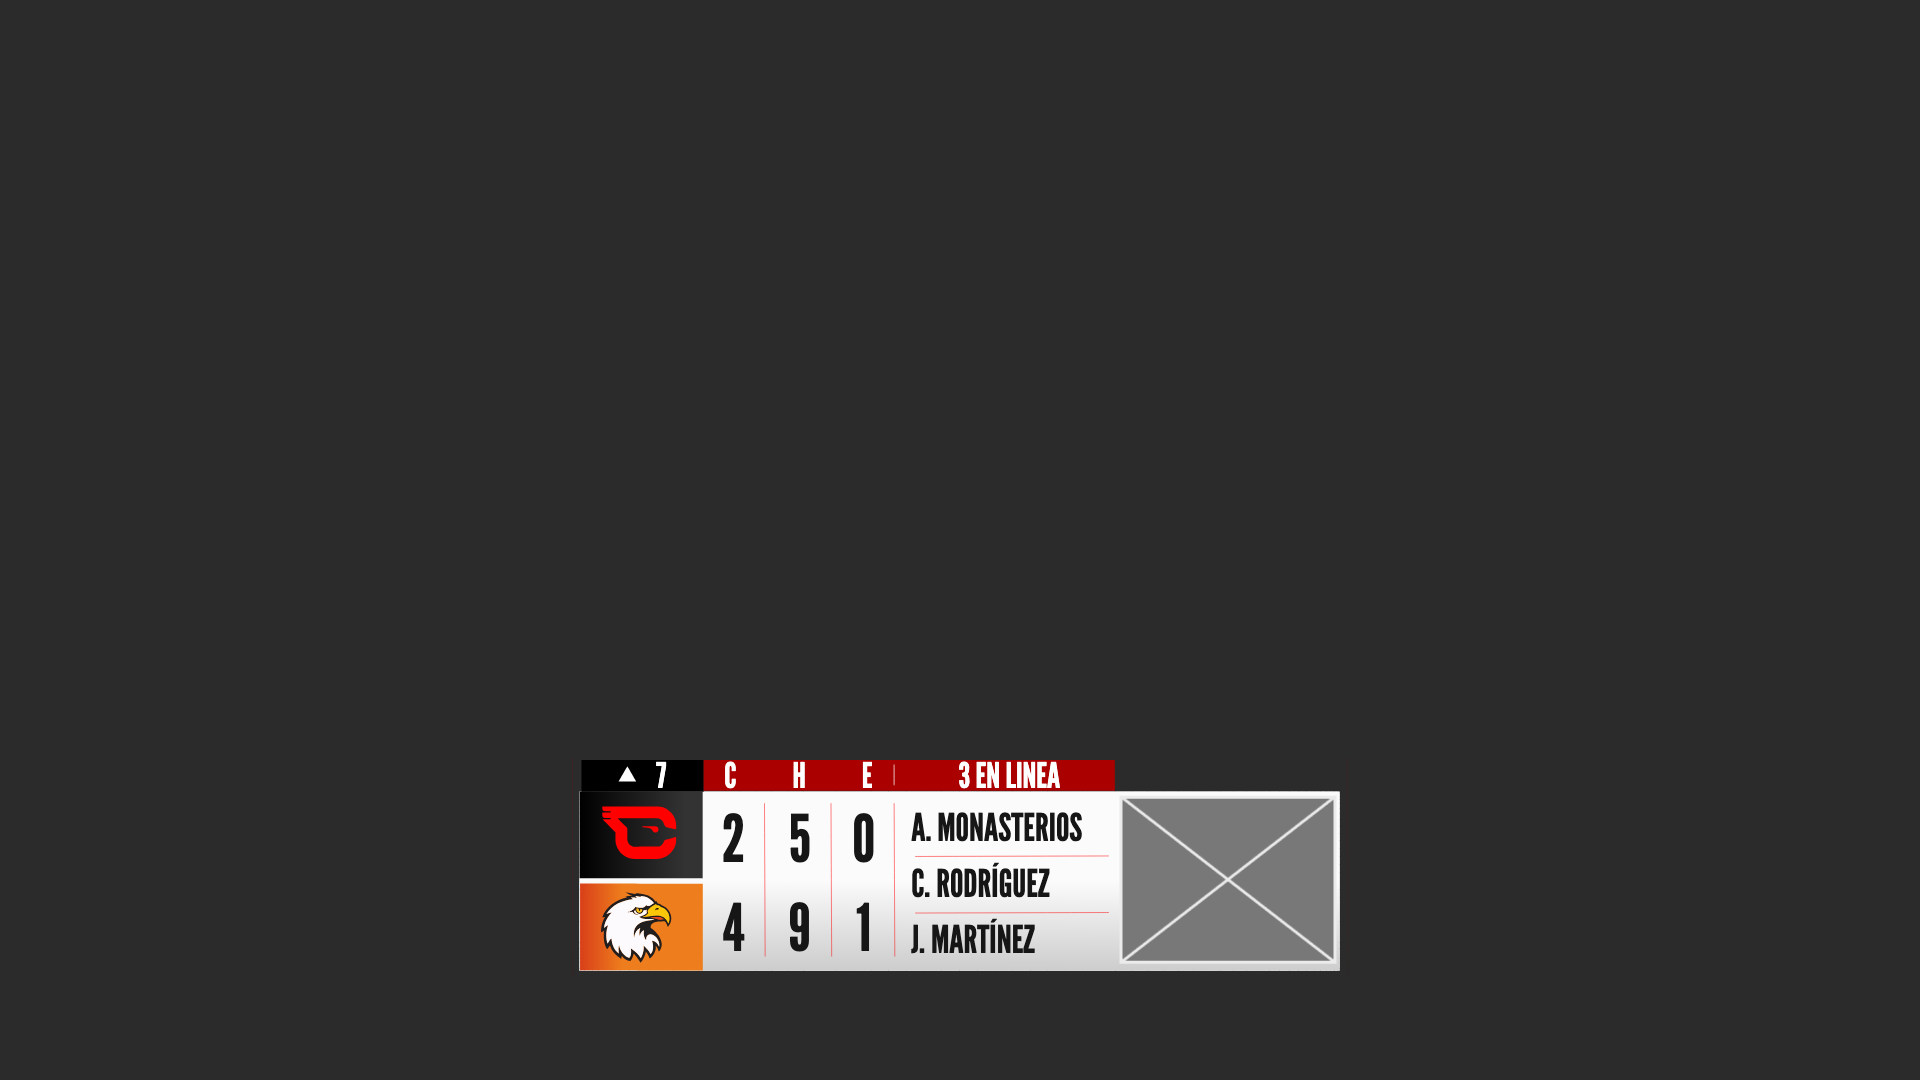
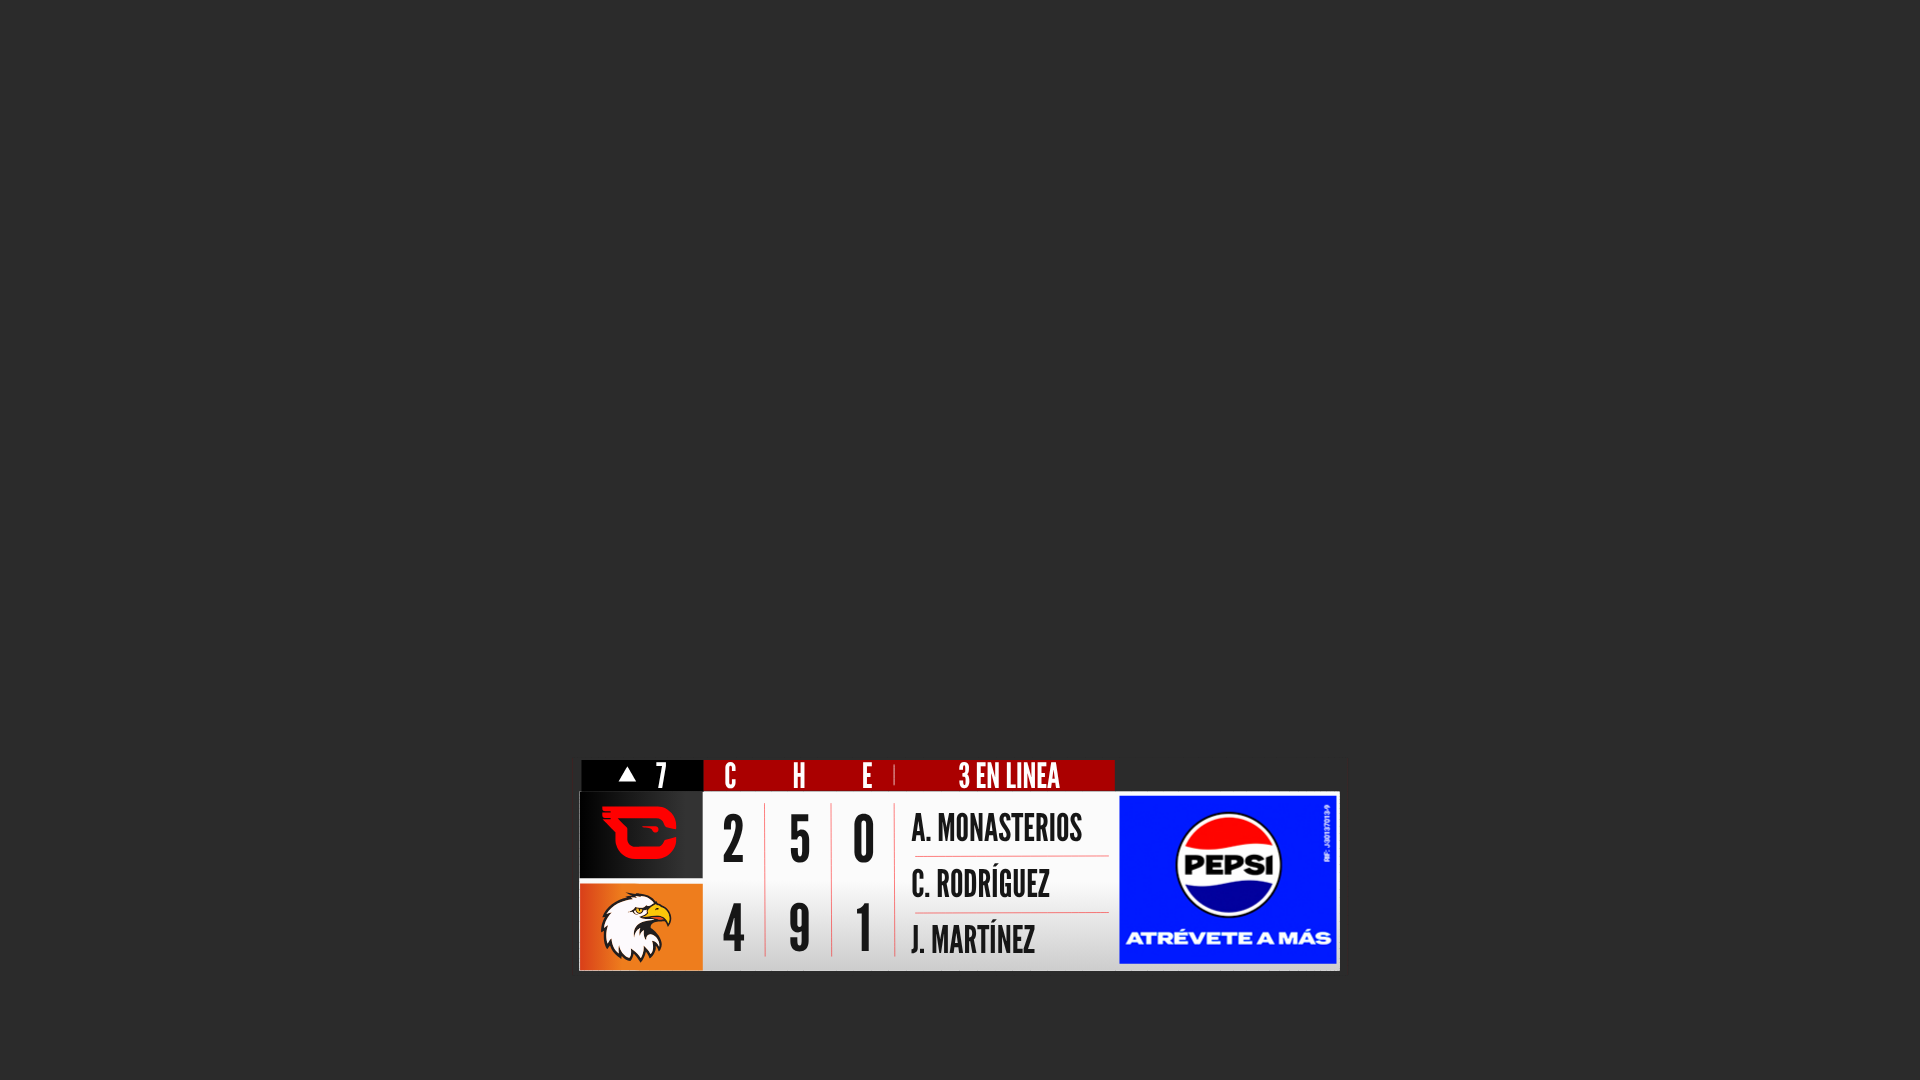
Parcial: Pepsi como publicidad por defecto
parcial/images/pepsi.png (217 × 168, el tamaño exacto del cuadro) pasa a
ser el asset de la capa publicidad: sin data, sale Pepsi. "" lo saca e
images/pepsi.png lo vuelve a poner. La publicidad.png transparente queda
en la carpeta. prep.js lo repite si llega un export nuevo, y
capturas/parcial.png muestra el default.

Claude-Session: https://claude.ai/code/session_01B7fbbsxgW7unRXWM5AS56w

Changed region(s): [[0.4688, 0.7028, 0.7188, 0.9167], [0.4688, 0.8556, 0.5312, 0.8861]]

diff --git a/herramientas/prep.js b/herramientas/prep.js
@@ -347,10 +347,10 @@ if (hay('ofensiva')) {
 // La publicidad llega como un PNG verde de relleno. En el repo va images/publicidad.png,
 // transparente y del mismo tamaño: si el cliente no manda logo no sale nada, y el verde del export
 // no se usa aunque alguien copie su images/. pr meet: Lottie por defecto recorta (slice) una
-// imagen de otra proporción; así el logo entra entero y centrado.
-function publicidad(d, nm) {
+// imagen de otra proporción; así el logo entra entero y centrado. p: otro default (parcial, Pepsi).
+function publicidad(d, nm, p = 'publicidad.png') {
     const l = rename(d, nm, 'publicidad');
-    Object.assign(d.assets.find(a => a.id === l.refId), { p: 'publicidad.png', pr: 'xMidYMid meet' });
+    Object.assign(d.assets.find(a => a.id === l.refId), { p, pr: 'xMidYMid meet' });
 }
 
 // ---------------------------------------------------------------- 3 en línea
@@ -434,7 +434,7 @@ if (hay('score parcial')) {
         rename(d, nm, `jugador${i + 1}`).t.d.k[0].s.sz[0] = 191;
     });
     rename(d, '.3enlineaproxinning', 'titulo_jugadores');
-    publicidad(d, 'PUBLICIDAD PARCIAL.png'); // 217×168
+    publicidad(d, 'PUBLICIDAD PARCIAL.png', 'pepsi.png'); // 217×168; por defecto sale Pepsi
 
     d.markers = [
         { tm: 0, cm: 'play', dr: ENTRADA_PAR, payload: { name: 'play', type: 'pause', order: 1, stop: 'salida' } },

diff --git a/CLAUDE.md b/CLAUDE.md
@@ -28,8 +28,9 @@ los 56 cruces `visita_vs_local`, igual que en `parcial` y `final`; `3enlinea` y 
 publicidad vacía, con logos de distintas proporciones y con una ruta que no carga; `placa_juego`
 muestra los ocho de visita y de local, en cruces de a uno). Son de v0.0.7
 (las de `ofensiva`, de v0.0.9; las de `defensiva_lateral` y `3enlinea`, del 2026-10-06; las de
-`parcial` y `prevenido`, del 2026-10-07; las de `final`, del 2026-10-10; las de `placa_juego`, del
-2026-10-14): si un
+`prevenido`, del 2026-10-07; las de `final`, del 2026-10-10; las de `placa_juego`, del
+2026-10-14; las de `parcial`, `parcial_equipos.png` del 2026-10-07 y `parcial.png` del 2026-10-21,
+con la publicidad por defecto): si un
 gráfico cambia, hay que regenerarlas. No entran al zip (`.gitattributes`).
 
 Textos: salen en mayúsculas aunque lleguen en minúsculas (ver *Mayúsculas* en Convenciones del
@@ -67,7 +68,9 @@ el mismo ancho, y las de valor también, para que cualquier texto entre en cualq
 
 Publicidad: en `3enlinea`, `parcial` y `prevenido` el cuadro de la derecha es la capa de imagen
 `publicidad` (107 × 110, 217 × 168 y 81 × 65). El cliente manda la ruta del logo y entra entero, de cualquier proporción (ver *Reemplazo de
-imágenes*). Por defecto es `images/publicidad.png`, transparente: sin logo no sale nada. El
+imágenes*). Por defecto es `images/publicidad.png`, transparente: sin logo no sale nada. En
+`parcial` no: el default es Pepsi (`images/pepsi.png`, del tamaño exacto del cuadro; pedido de
+Leon, 2026-10-21), y su `publicidad.png` transparente queda en la carpeta sin usar. El
 diseñador la mandó primero como un rectángulo verde de forma y después como un PNG verde: si otro
 gráfico con Gatorade llega con el rectángulo, se puede convertir en `prep.js` en una capa de imagen
 como esta, sin pedírselo.

diff --git a/parcial/data.md b/parcial/data.md
@@ -39,8 +39,9 @@ size. A full name shrinks to fit (`EDUARDO RODRÍGUEZ`, 17 characters, goes abou
 **Sponsor (`publicidad`):** the box on the right of the panel, 217 × 168 px. Send the path to the
 sponsor's logo: relative to this graphic's folder (`images/gatorade.png` is
 `parcial/images/gatorade.png`, so the file has to be there) or a full URL. A logo of any proportion
-fits whole, centered in the box. By default the box is empty (`images/publicidad.png` is
-transparent): if you send nothing, no logo shows. Send `""` to take the logo off.
+fits whole, centered in the box. By default it shows Pepsi (`images/pepsi.png`, the exact size of
+the box): if you send nothing, Pepsi shows. Send `""` to take the logo off, and
+`images/pepsi.png` to put Pepsi back after another logo.
 
 **Placement:** bottom center of the screen. Its right edge ends 1 px before the score's column:
 on air together they sit side by side without overlapping (in the designer's video it goes on air
@@ -137,7 +138,7 @@ changes both. `titulo_jugadores` sits in a red bar shorter than an accented capi
 
 | Class | Ref ID | Size | Default |
 |-------|--------|------|---------|
-| `publicidad` | `image_0` | 217 × 168 px | `images/publicidad.png` (transparent) |
+| `publicidad` | `image_0` | 217 × 168 px | `images/pepsi.png` |
 
 ## Markers
 
